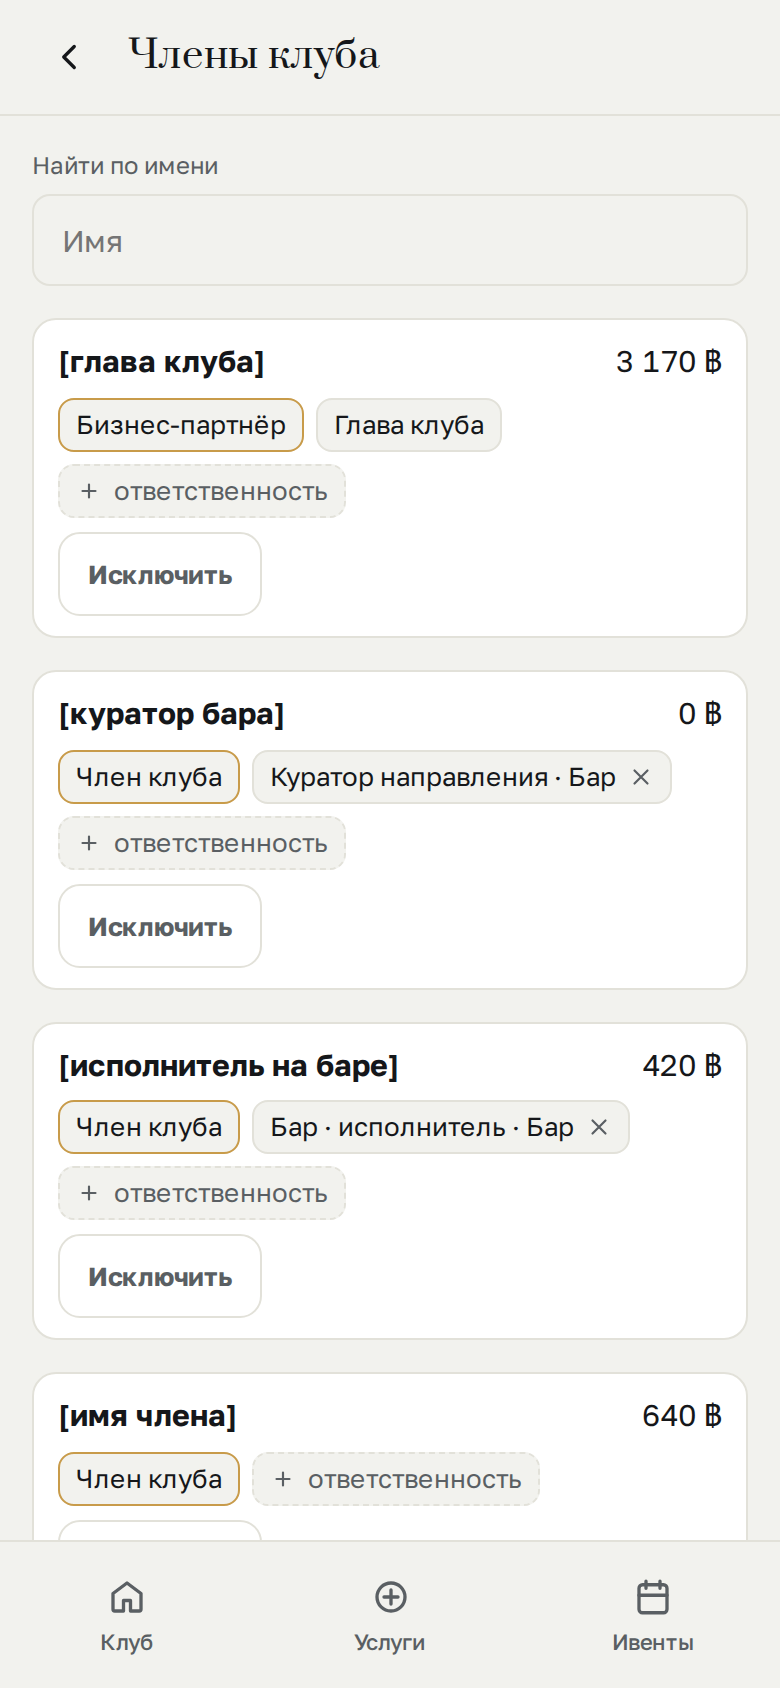
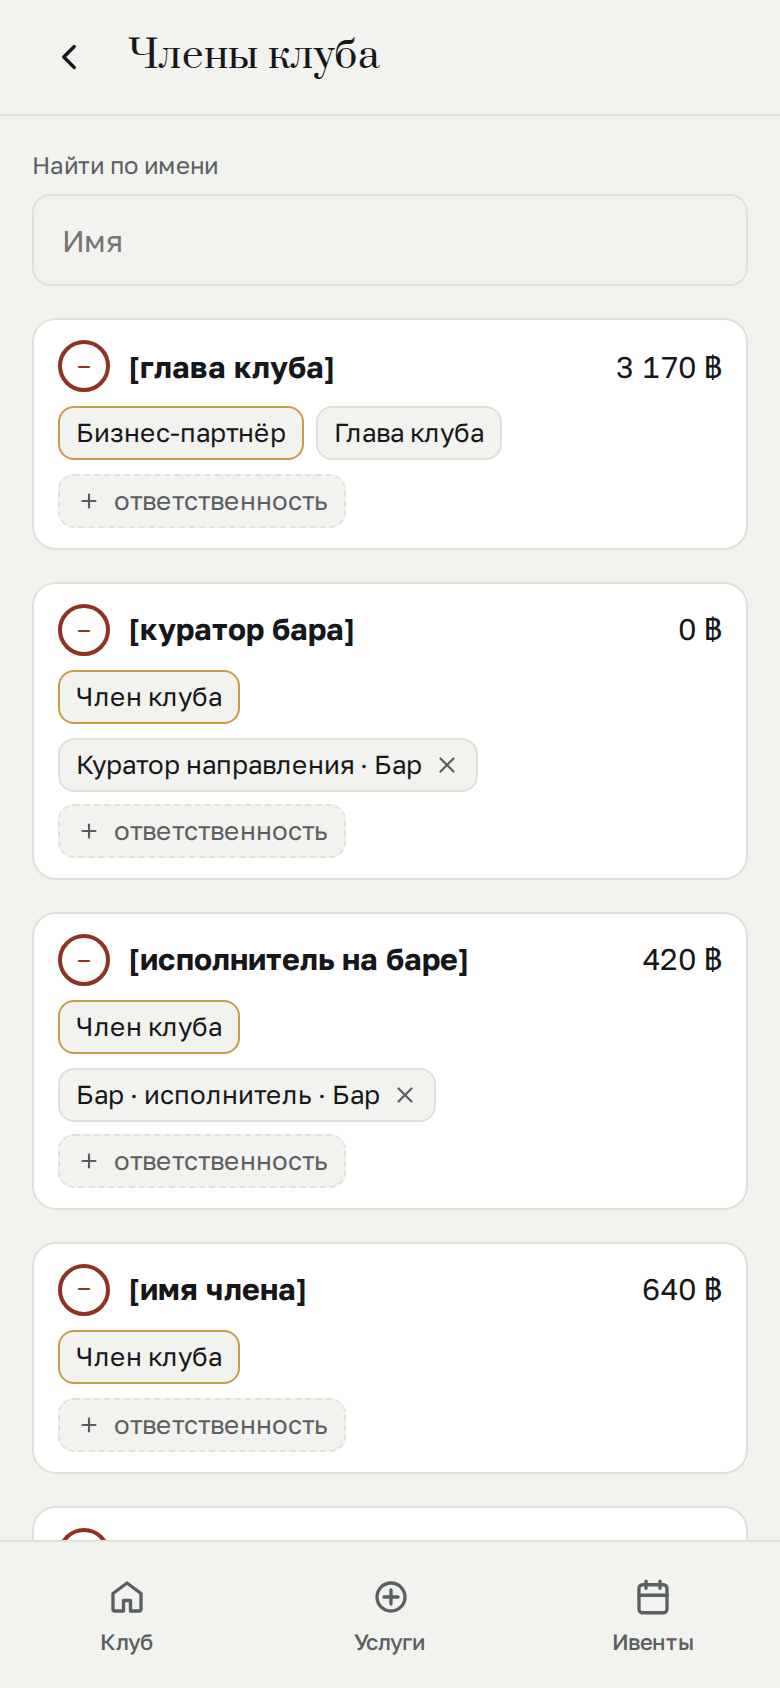
v85: номер версии и пересъёмка описи (#502 п.2–4)
Номер назван координатором перед мерджем, а не вычислен из ствола: v85 стоит
в карте #324 за этой работой. Признак по ФАЙЛУ на вызов — 1/2/1/1
(app.js, index.html `?v=`, tools/catalog.py, screens.html генератором).

Опись пересnята целиком: карточка человека на 38-people изменилась обоими
пунктами. Видимость перегнана тем же деревом — генератор отказался собирать
страницу с прежним vidimost.json («снята с ДРУГОГО клиента»), и это его
отказ, а не моя предусмотрительность.

Claude-Session: https://claude.ai/code/session_01AuiMpVNur8XUvcrwXFiKBH

diff --git a/screens.html b/screens.html
@@ -69,7 +69,7 @@ footer code { font-family:ui-monospace,SFMono-Regular,Menlo,monospace; font-size
 <div class="wrap"><header>
 <div class="wordmark">Caf&eacute; XIII</div>
 <h1>Экраны мини-приложения</h1>
-<div class="meta">v81 · 28.10.2026 &middot; 47 экранов, снимков 43 &middot; снимок — с живой страницы, 390&nbsp;&times;&nbsp;844 &middot; <a href="https://anatoly9837-lab.github.io/cafe13-miniapp/">открыть приложение</a></div>
+<div class="meta">v85 · 29.10.2026 &middot; 47 экранов, снимков 43 &middot; снимок — с живой страницы, 390&nbsp;&times;&nbsp;844 &middot; <a href="https://anatoly9837-lab.github.io/cafe13-miniapp/">открыть приложение</a></div>
 <p class="lead">Полная опись экранов мини-приложения клуба. Каждый снимок сделан с живой страницы на экране телефона 390 × 844 — это не макет и не рисунок поверх идеи: то же самое открывается по ссылке ниже.</p>
 <p class="lead">Стадия каждого экрана — рамкой, и берётся она из одного файла (СТАДИИ.tsv), а не ставится руками. «Видят» — это ВЫВОД ПО КОДУ приложения: от вкладок человека прибор идёт по входам на отрисованных экранах, пока находятся новые. Право без входа видимостью не считается. Где вход рисуется строкой данных сервера или туда уходит сам код, это сказано словами: «никто» у такого экрана значило бы не «пути нет», а «нечем измерить». Под каждым человеком экран никто не открывал, наблюдение — отдельный шаг. Состав ролей и членств взят из тестовой базы (замер devops5, 27.10.2026, только чтение), а в бою он другой: у владельца там бессрочное членство, и вкладка «Клуб» у него есть. Строка «состояние» у невключённого экрана отвечает на вопрос телефоном: вход в приложении открыт (человек дойдёт и увидит «Раздел ещё не подключён»), закрыт самим реестром (включится вместе с экраном) или его нет вовсе. Считается она по `app.js` ЭТОЙ редакции — по тому же файлу, с которого снята видимость, а не по выложенному: их сверяет отдельный прибор (tools/check-stages.py).</p>
 <div class="legend">

diff --git a/index.html b/index.html
@@ -6,7 +6,7 @@
 <title>Café XIII — клуб</title>
 <script src="https://telegram.org/js/telegram-web-app.js"></script>
 <link rel="stylesheet" href="https://fonts.googleapis.com/css2?family=Prata&family=Golos+Text:wght@400;500;600;700&display=swap">
-<link rel="stylesheet" href="styles.css?v=82">
+<link rel="stylesheet" href="styles.css?v=85">
 </head>
 <body>
 
@@ -22,6 +22,6 @@
 <nav class="tabs" id="tabs"></nav>
 
 <script src="vendor/qrcode-1.4.4.js"></script>
-<script src="app.js?v=82"></script>
+<script src="app.js?v=85"></script>
 </body>
 </html>

diff --git a/app.js b/app.js
@@ -36,7 +36,7 @@
    принят: мой вывод был шире замера). Замер — выложить номер, не меняя
    кнопки, и посмотреть номер в Telegram без перезапуска; до него кнопку
    трогают по слову devops5, а не по этой строке. */
-var VERSION = 'v82 · 28.10.2026';
+var VERSION = 'v85 · 29.10.2026';
 
 var tg = window.Telegram && window.Telegram.WebApp ? window.Telegram.WebApp : null;
 

diff --git a/tools/catalog.py b/tools/catalog.py
@@ -26,7 +26,7 @@
 """
 import hashlib, io, json, os, re, sys
 
-VERSION = 'v82 · 28.10.2026'
+VERSION = 'v85 · 29.10.2026'
 LIVE = 'https://anatoly9837-lab.github.io/cafe13-miniapp/'
 
 GROUPS = {
